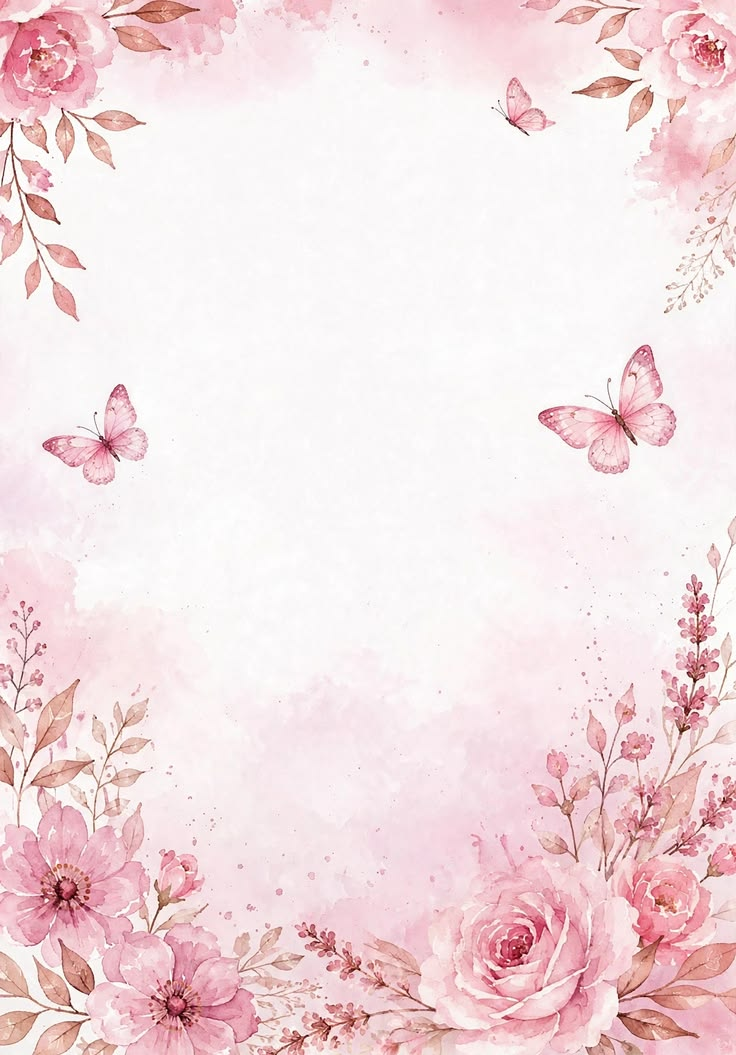
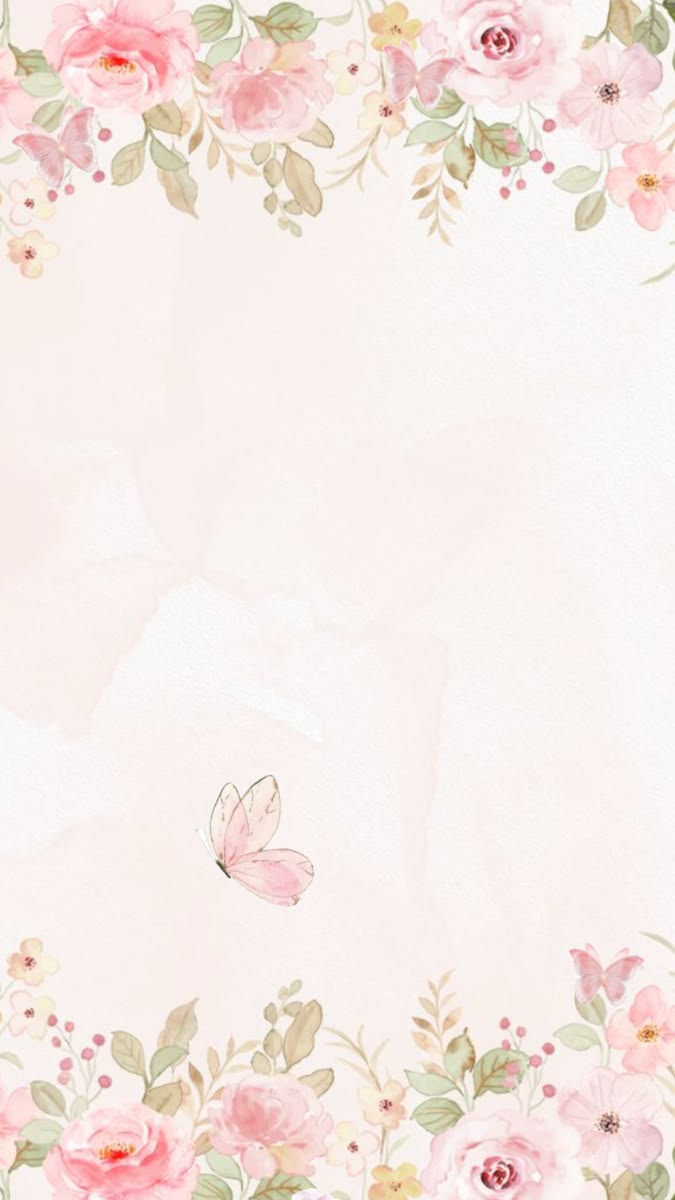
Arcade: new letter frame for the second section
Jony's updated frame (675x1200, rose garlands top and bottom, one
butterfly). Words move to inset-x 14%, top 22%, bottom 37% so they sit
between the garlands and above the butterfly.

Claude-Session: https://claude.ai/code/session_01H3BNBGvNPkcitz8gNvKv5B

diff --git a/frontend/src/themes/arcade/index.tsx b/frontend/src/themes/arcade/index.tsx
@@ -127,11 +127,12 @@ export default async function ArcadeTheme({
           </div>
         </section>
 
-        {/* The words, written straight onto a watercolour letter of pink
-            roses and butterflies. Its blush paper is the page's paper, and
-            its foot fades into it. Sizes follow the section's width so the
-            words always stay between the flowers. */}
-        <section className="@container relative aspect-[736/1055]">
+        {/* The words, written straight onto a watercolour letter with rose
+            garlands at its head and foot. Its blush paper is the page's
+            paper, and its foot fades into it. Sizes follow the section's
+            width so the words always stay between the garlands and above the
+            butterfly. */}
+        <section className="@container relative aspect-[675/1200]">
           <Image
             src={`${ASSETS}/frame.jpg`}
             alt=""
@@ -140,7 +141,7 @@ export default async function ArcadeTheme({
             sizes="448px"
             className="object-cover [mask-image:linear-gradient(to_bottom,black_90%,transparent)]"
           />
-          <div className="absolute inset-x-[25%] top-[11%] bottom-[24%] flex flex-col items-center justify-center">
+          <div className="absolute inset-x-[14%] top-[22%] bottom-[37%] flex flex-col items-center justify-center">
             <div className="arcade-reveal">
               <h2
                 className={`${yeseva.className} text-[6.2cqw] leading-tight text-[#4d3a52]`}
